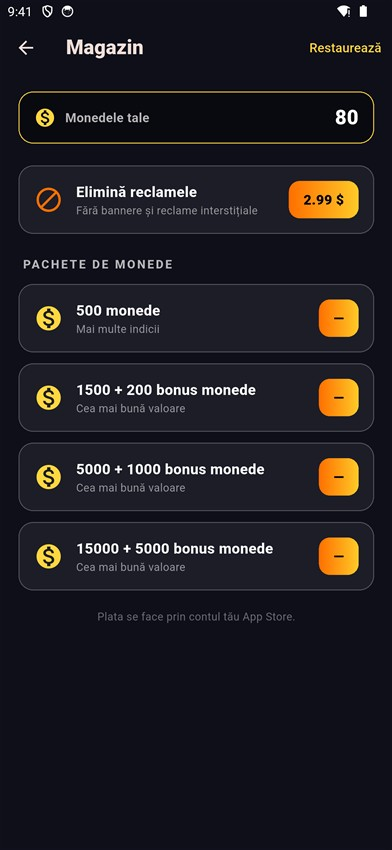
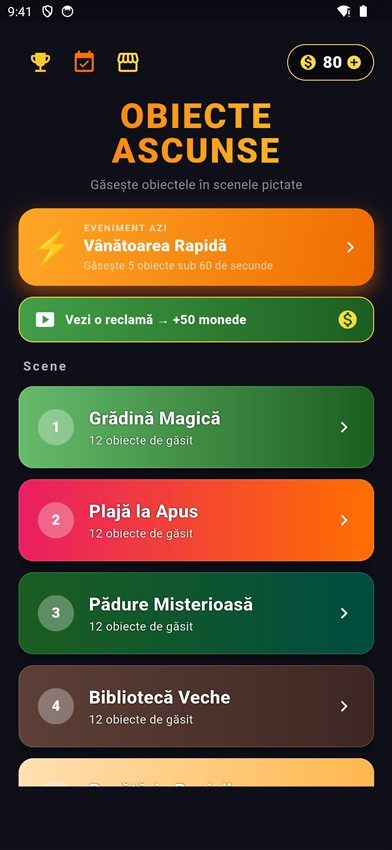
Add App Open ads (highest eCPM) + Remove-Ads upsell offer
- App Open ad on app foreground (real AdMob units: Android 9333640128,
  iOS 2768231771), 4h cache expiry, anti-overlap guard.
- After any full-screen ad (App Open/interstitial) closes, show a house
  "Remove ads" offer (~15 lei) that buys the noAds IAP. 2-min cooldown.
- navigatorKey + lifecycle observer wiring in main.dart.
- Bump 2.3.1+30 -> 2.3.2+31.

diff --git a/lib/services/ads_service.dart b/lib/services/ads_service.dart
@@ -16,11 +16,19 @@ class AdsService {
   static const String _interstitialProdIOS = 'ca-app-pub-5549243085914479/4795968627';
   static const String _rewardedProdIOS = 'ca-app-pub-5549243085914479/2584738255';
 
+  // App Open (highest-value launch/return ad). Replace the two prod IDs with the
+  // real AdMob App Open units (Android app 1073361366 / iOS app 6917596868).
+  static const String _appOpenProdAndroid = 'ca-app-pub-5549243085914479/9333640128';
+  static const String _appOpenProdIOS = 'ca-app-pub-5549243085914479/2768231771';
+
   static const String _bannerTest = 'ca-app-pub-3940256099942544/6300978111';
   static const String _interstitialTest = 'ca-app-pub-3940256099942544/1033173712';
   static const String _rewardedTest = 'ca-app-pub-3940256099942544/5224354917';
+  static const String _appOpenTestAndroid = 'ca-app-pub-3940256099942544/9257395921';
+  static const String _appOpenTestIOS = 'ca-app-pub-3940256099942544/5575463023';
 
   static const Duration _minInterval = Duration(seconds: 60);
+  static const Duration _appOpenMaxAge = Duration(hours: 4);
 
   bool _initialized = false;
   InterstitialAd? _interstitial;
@@ -28,6 +36,15 @@ class AdsService {
   DateTime? _lastInterstitialShown;
   RewardedAd? _rewarded;
   bool _rewardedLoading = false;
+  AppOpenAd? _appOpen;
+  bool _appOpenLoading = false;
+  DateTime? _appOpenLoadTime;
+  bool _showingFullScreenAd = false;
+
+  /// Bumped whenever a full-screen ad (App Open or interstitial) closes, so the
+  /// UI can offer the "Remove ads" upsell right after.
+  final ValueNotifier<int> adClosedTick = ValueNotifier(0);
+  void _notifyAdClosed() => adClosedTick.value++;
 
   String get bannerUnitId {
     if (kDebugMode) return _bannerTest;
@@ -41,6 +58,10 @@ class AdsService {
     if (kDebugMode) return _rewardedTest;
     return Platform.isIOS ? _rewardedProdIOS : _rewardedProdAndroid;
   }
+  String get appOpenUnitId {
+    if (kDebugMode) return Platform.isIOS ? _appOpenTestIOS : _appOpenTestAndroid;
+    return Platform.isIOS ? _appOpenProdIOS : _appOpenProdAndroid;
+  }
 
   Future<void> initialize() async {
     if (_initialized) return;
@@ -49,6 +70,60 @@ class AdsService {
     _initialized = true;
     _loadInterstitial();
     _loadRewarded();
+    loadAppOpen();
+  }
+
+  void loadAppOpen() {
+    if (_appOpenLoading || _appOpen != null) return;
+    _appOpenLoading = true;
+    AppOpenAd.load(
+      adUnitId: appOpenUnitId,
+      request: const AdRequest(),
+      adLoadCallback: AppOpenAdLoadCallback(
+        onAdLoaded: (ad) {
+          _appOpen = ad;
+          _appOpenLoadTime = DateTime.now();
+          _appOpenLoading = false;
+        },
+        onAdFailedToLoad: (err) {
+          _appOpen = null;
+          _appOpenLoading = false;
+        },
+      ),
+    );
+  }
+
+  bool get _appOpenValid =>
+      _appOpen != null &&
+      _appOpenLoadTime != null &&
+      DateTime.now().difference(_appOpenLoadTime!) < _appOpenMaxAge;
+
+  /// Shows the App Open ad on app foreground if one is ready. Skips when ads are
+  /// removed, another full-screen ad is showing, or none is loaded (then preloads).
+  Future<void> showAppOpenIfReady() async {
+    if (!_initialized || PurchaseService.instance.noAds) return;
+    if (_showingFullScreenAd) return;
+    if (!_appOpenValid) {
+      loadAppOpen();
+      return;
+    }
+    final ad = _appOpen!;
+    _appOpen = null;
+    _showingFullScreenAd = true;
+    ad.fullScreenContentCallback = FullScreenContentCallback(
+      onAdDismissedFullScreenContent: (a) {
+        a.dispose();
+        _showingFullScreenAd = false;
+        loadAppOpen();
+        _notifyAdClosed();
+      },
+      onAdFailedToShowFullScreenContent: (a, _) {
+        a.dispose();
+        _showingFullScreenAd = false;
+        loadAppOpen();
+      },
+    );
+    await ad.show();
   }
 
   void _loadInterstitial() {
@@ -83,16 +158,20 @@ class AdsService {
       _loadInterstitial();
       return;
     }
+    _showingFullScreenAd = true;
     ad.fullScreenContentCallback = FullScreenContentCallback(
       onAdDismissedFullScreenContent: (a) {
         a.dispose();
         _interstitial = null;
+        _showingFullScreenAd = false;
         _lastInterstitialShown = DateTime.now();
         _loadInterstitial();
+        _notifyAdClosed();
       },
       onAdFailedToShowFullScreenContent: (a, _) {
         a.dispose();
         _interstitial = null;
+        _showingFullScreenAd = false;
         _loadInterstitial();
       },
     );
@@ -126,16 +205,19 @@ class AdsService {
       return false;
     }
     final completer = Completer<bool>();
+    _showingFullScreenAd = true;
     ad.fullScreenContentCallback = FullScreenContentCallback(
       onAdDismissedFullScreenContent: (a) {
         a.dispose();
         _rewarded = null;
+        _showingFullScreenAd = false;
         _loadRewarded();
         if (!completer.isCompleted) completer.complete(false);
       },
       onAdFailedToShowFullScreenContent: (a, _) {
         a.dispose();
         _rewarded = null;
+        _showingFullScreenAd = false;
         _loadRewarded();
         if (!completer.isCompleted) completer.complete(false);
       },

diff --git a/lib/widgets/remove_ads_offer.dart b/lib/widgets/remove_ads_offer.dart
@@ -1,0 +1,92 @@
+import 'package:flutter/material.dart';
+import '../services/purchase_service.dart';
+
+/// House promo shown right after an ad closes: offers to remove ads for a fixed
+/// price. Rate-limited so it never feels spammy.
+class RemoveAdsOffer {
+  RemoveAdsOffer._();
+
+  static DateTime? _lastShown;
+  static bool _open = false;
+  static const Duration _cooldown = Duration(minutes: 2);
+
+  /// Fallback price label if the store price hasn't loaded yet.
+  static const String _fallbackPrice = '15 lei';
+
+  static bool get _due {
+    if (PurchaseService.instance.noAds) return false;
+    if (_open) return false;
+    if (_lastShown != null && DateTime.now().difference(_lastShown!) < _cooldown) {
+      return false;
+    }
+    return true;
+  }
+
+  static Future<void> maybeShow(BuildContext context) async {
+    if (!_due) return;
+    _lastShown = DateTime.now();
+    _open = true;
+    final price = PurchaseService.instance.productFor(PurchaseService.noAdsId)?.price ??
+        _fallbackPrice;
+    await showDialog<void>(
+      context: context,
+      barrierDismissible: true,
+      builder: (ctx) => Dialog(
+        backgroundColor: const Color(0xFF15151F),
+        shape: RoundedRectangleBorder(borderRadius: BorderRadius.circular(20)),
+        child: Padding(
+          padding: const EdgeInsets.fromLTRB(22, 26, 22, 18),
+          child: Column(
+            mainAxisSize: MainAxisSize.min,
+            children: [
+              Container(
+                padding: const EdgeInsets.all(14),
+                decoration: const BoxDecoration(
+                  shape: BoxShape.circle,
+                  gradient: LinearGradient(colors: [Color(0xFFFF6F00), Color(0xFFFFCA28)]),
+                ),
+                child: const Icon(Icons.block, color: Colors.white, size: 34),
+              ),
+              const SizedBox(height: 16),
+              const Text('Scapă de reclame',
+                  style: TextStyle(
+                      color: Colors.white, fontSize: 22, fontWeight: FontWeight.w900)),
+              const SizedBox(height: 8),
+              const Text(
+                'Joacă fără bannere și fără reclame care te întrerup. O singură dată, pentru totdeauna.',
+                textAlign: TextAlign.center,
+                style: TextStyle(color: Colors.white70, fontSize: 14, height: 1.3),
+              ),
+              const SizedBox(height: 22),
+              SizedBox(
+                width: double.infinity,
+                child: ElevatedButton(
+                  style: ElevatedButton.styleFrom(
+                    backgroundColor: const Color(0xFFFF6F00),
+                    foregroundColor: Colors.white,
+                    padding: const EdgeInsets.symmetric(vertical: 14),
+                    shape: RoundedRectangleBorder(
+                        borderRadius: BorderRadius.circular(14)),
+                  ),
+                  onPressed: () {
+                    Navigator.of(ctx).pop();
+                    PurchaseService.instance.buy(PurchaseService.noAdsId);
+                  },
+                  child: Text('Elimină reclamele • $price',
+                      style: const TextStyle(fontWeight: FontWeight.w900, fontSize: 16)),
+                ),
+              ),
+              const SizedBox(height: 6),
+              TextButton(
+                onPressed: () => Navigator.of(ctx).pop(),
+                child: const Text('Mai târziu',
+                    style: TextStyle(color: Colors.white54)),
+              ),
+            ],
+          ),
+        ),
+      ),
+    );
+    _open = false;
+  }
+}

diff --git a/lib/main.dart b/lib/main.dart
@@ -6,6 +6,9 @@ import 'screens/home_screen.dart';
 import 'services/ads_service.dart';
 import 'services/purchase_service.dart';
 import 'game/level_data.dart';
+import 'widgets/remove_ads_offer.dart';
+
+final navigatorKey = GlobalKey<NavigatorState>();
 
 void main() async {
   WidgetsFlutterBinding.ensureInitialized();
@@ -17,14 +20,48 @@ void main() async {
   runApp(const HiddenObjectsApp());
 }
 
-class HiddenObjectsApp extends StatelessWidget {
+class HiddenObjectsApp extends StatefulWidget {
   const HiddenObjectsApp({super.key});
+
+  @override
+  State<HiddenObjectsApp> createState() => _HiddenObjectsAppState();
+}
+
+class _HiddenObjectsAppState extends State<HiddenObjectsApp>
+    with WidgetsBindingObserver {
+  @override
+  void initState() {
+    super.initState();
+    WidgetsBinding.instance.addObserver(this);
+    // Show the upsell right after a full-screen ad (App Open / interstitial) closes.
+    AdsService.instance.adClosedTick.addListener(_onAdClosed);
+  }
+
+  @override
+  void dispose() {
+    WidgetsBinding.instance.removeObserver(this);
+    AdsService.instance.adClosedTick.removeListener(_onAdClosed);
+    super.dispose();
+  }
+
+  @override
+  void didChangeAppLifecycleState(AppLifecycleState state) {
+    if (state == AppLifecycleState.resumed) {
+      AdsService.instance.showAppOpenIfReady();
+    }
+  }
+
+  void _onAdClosed() {
+    final ctx = navigatorKey.currentContext;
+    if (ctx != null) RemoveAdsOffer.maybeShow(ctx);
+  }
 
   @override
   Widget build(BuildContext context) {
     return MaterialApp(
       title: 'Hidden Objects',
       debugShowCheckedModeBanner: false,
+      navigatorKey: navigatorKey,
       theme: ThemeData(
         useMaterial3: true,
         colorScheme: ColorScheme.fromSeed(
